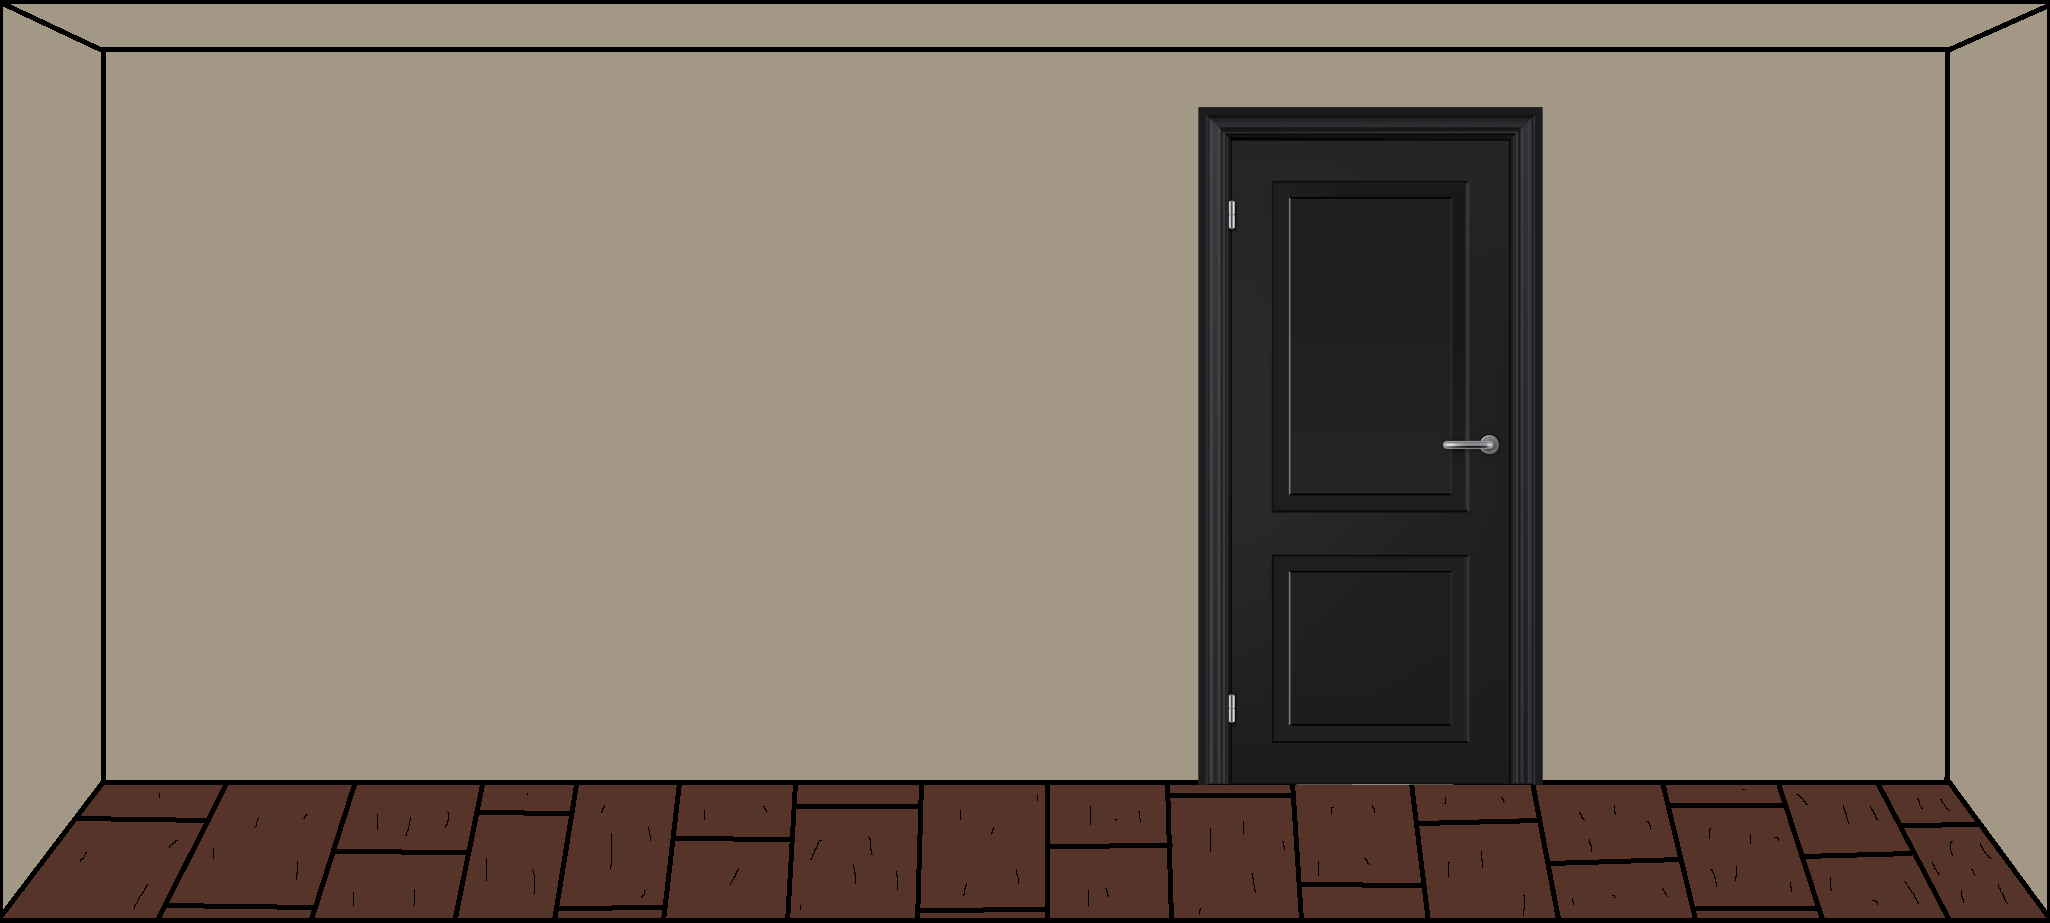
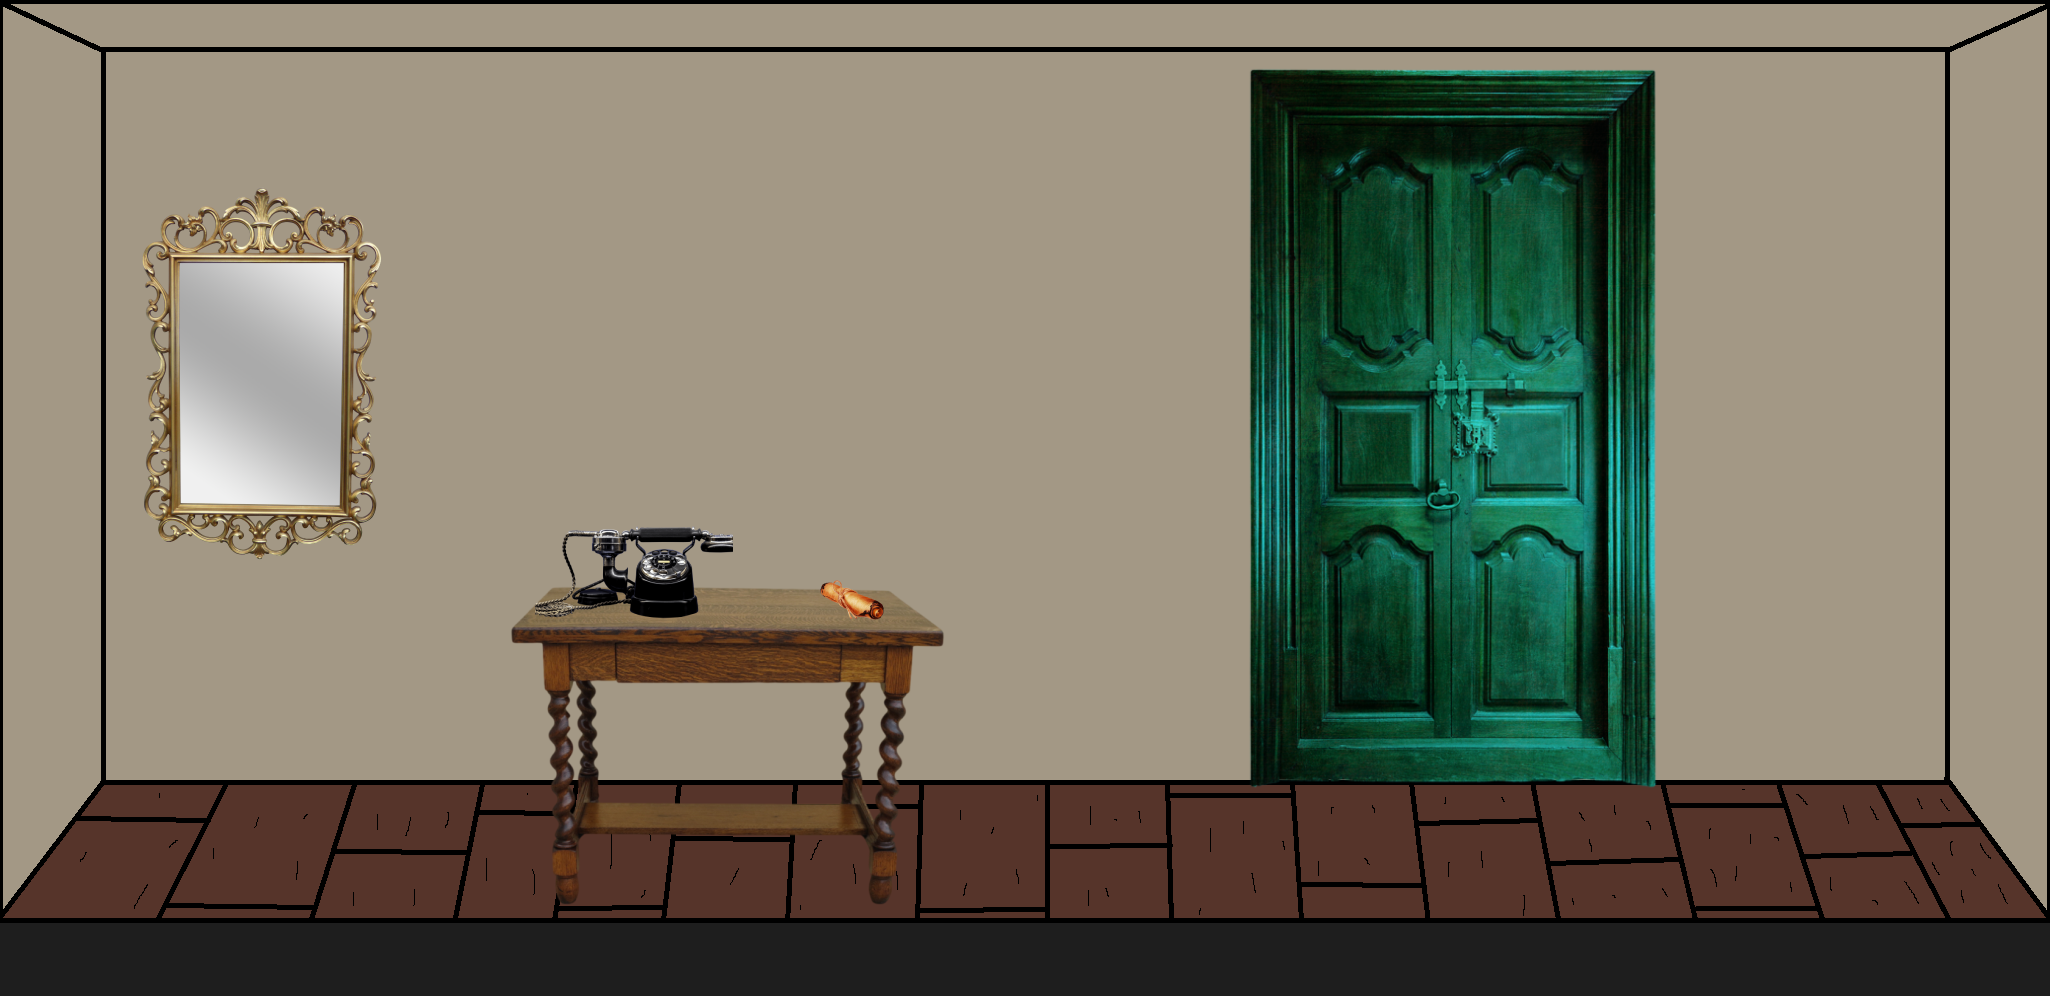
added closeups to game

diff --git a/src/helpers/wall3_story.js b/src/helpers/wall3_story.js
@@ -1,56 +1,66 @@
+import wall3 from '../assets/wall3.png'
 export const story3 = [
     {
         prompt: "As you enter the final room you take a look around - there is a door, a mirror, a table, and a phone. Each of these items holds a clue that will help you unlock the door and escape to freedom.",
         question: "What would you like to investigate first (table, phone, mirror, or door)?",
         hint:null,
-        answer: null
+        answer: null,
+        image:wall3
     },
     {
         prompt: "You come across a small table with a note sitting on it. The note reads:\n \n\"I'm something you may need,\nWhen you are stuck indeed.\nIf you are lost and cannot cope,\nI'm what you cry out, but with hope.\nWhat am I?\"",
         question: "What is the answer to the riddle?",
         hint:"The answer to this riddle is a four-letter word that refers to something you might ask for when you need assistance. It's a common word that most people use on a regular basis.",
-        answer: "help"
+        answer: "help",
+        image:wall3
     },
     {
         prompt: "Correct, the answer was help. Keep this in mind when using the phone.",
         question: "What would you like to investigate now (phone, mirror, or door)?",
         hint:null,
-        answer: null
+        answer: null,
+        image:wall3
     },
     {
         prompt: "The rotary phone is a vintage telephone with a classic design. It has a circular dial that rotates when you turn it to select a number, rather than a touchpad or a keyboard. The phone is made of sturdy plastic and metal, and has a long cord that connects it to the wall. Despite its age, the phone appears to be in good condition, and it seems like it might still be functional.",
         question: "What number would you like to call?",
         hint: "The table gives a clue on which number would be beneficial to call",
-        answer: "911"
+        answer: "911",
+        image:wall3
     },
     {
         prompt: "The call results in the following message:\n\n \"I am the key to the hidden code,\nA sequence of colors in the right mode.\nIn the correct order, the message will come through.\n\nMy first is hot, my second is fresh,\nMy third is cool, my fourth is the best.\nArrange me right, and you'll see the light,\nA message revealed, and your escape in sight.\"",
         question:"What would you like to explore now (mirror or door)?",
         hint:null,
-        answer:null
+        answer:null,
+        image:wall3
     },
     {
         prompt: "In the corner of the room you spot a vintage mirror, upon closer inspection you notice that there are four colored stones in each corner: blue, red, yellow, and green. Inscribed on the mirror is the following message, \"Find the right color sequence to reveal the hidden message\".",
         question:"What is the color sequence?",
         hint:null,
-        answer:"rgby"
+        answer:"rgby",
+        image:wall3
     },
     {
         prompt: "Correct, the sequence of colors was red, green, blue, yellow. The sequence of colors holds the key to your escape",
         question:"Would you like to move on to the (door or home)",
         hint:null,
-        answer:null
+        answer:null,
+        image:wall3
     },
     {
         prompt: "The door is made of heavy metal and is the only apparent exit from the room. It has a numeric keypad with letters of the alphabet printed on each button, indicating that a code consisting of letters must be entered to unlock the door.",
         question:"What is the 4-letter key that will allow you to escape?",
         hint:null,
-        answer:"rgby"
+        answer:"rgby",
+        image:wall3
     },
     {
         prompt: "Congratulations, you have escaped!",
         question:null,
         hint:null,
-        answer:null
+        answer:null,
+        image:wall3
     }
 ]

diff --git a/src/helpers/wall1_story.js b/src/helpers/wall1_story.js
@@ -1,45 +1,55 @@
-
+import wall_1 from '../assets/wall1.png'
+import bookshelf from '../assets/bookshelf clue.PNG'
+import triangle from '../assets/triangle.png'
 export const story1 = [
     {
         prompt: "As you enter the room, you notice a large bookcase occupying one wall, filled with dusty old tomes and leather-bound volumes. As you move towards the opposite wall, you notice a beautiful painting hanging on the wall. It depicts a brilliant scientist, but something about it seems off. Underneath the painting you find a treasure chest, secured shut with a lock. Explore the room to find various clues to unlock the treasure chest to move on to the next phase.",
         question: "What do you want to investigate first (bookcase, painting, chest)?",
         hint:null,
         answer: null,
+        image: wall_1
+        
     },
     {
         prompt: "You have decided to investigate the bookcase. As you start to look closer, you notice that some of the books are horizontal and appear to be out of order. You quickly realize that the titles on the spine of the books are clues, and you must arrange them in a particular order to unlock the secret of the bookcase. Here is a list of the following titles: \"Of Mice and Men\" by John Steinbeck, \"Pachinko\" by Min Jin Lee, \"East of Eden\" by John Steinbeck, \"Notes from Underground\" by Fyodor Dostoevsky",
         question:"What is the secret clue of the bookcase?",
         hint:"The first letter of each title is important",
         answer:"open",
+        image: bookshelf
     },
     {
         prompt:"Congratulations! You have obtained the clue \"OPEN\" from the bookcase",
         question: "Would you like to investigate the painting or chest?",
         hint:null,
-        answer:null
+        answer:null,
+        image: bookshelf
     },
     {
         prompt: "As you explore the room, you notice a large painting hanging on one of the walls. The painting depicts a brilliant scientist. As you admire the painting, you notice a small slip of paper tucked into the frame. You carefully remove the slip of paper and see that it's a handwritten note, with the following message scrawled across it: \"To unlock the secret behind this art, solve this puzzle with all your heart.\” The message reads a brain teaser which has a numerical answer",
         question: "How many triangles do you see?",
         hint: "Pay attention to how each smaller triangle is also part of a larger triangle, and how that larger triangle is part of an even larger one, and so on.",
-        answer: "24"
+        answer: "24",
+        image: triangle
     },
     {
         prompt:"Congratulations! You have obtained the clue \"1234\" from the painting",
         question: "Would you like to investigate the bookcase or chest?",
         hint:null,
-        answer:null
+        answer:null,
+        image: triangle
     },
     {
         prompt: "As you approach the chest you see it closed with a lock that requires a word and a number to unlock",
         question:"What word and number should it be?",
         hint:null,
-        answer:null
+        answer:null,
+        image: wall_1
     },
     {
         prompt: "Congratulations! You have successfully unlocked the chest. As you open the chest you find a key that will unlock the next room. You are one step closer to escaping!",
         question: null,
         hint:null,
-        answer:null
+        answer:null,
+        image: wall_1
     }
 ]

diff --git a/src/helpers/wall2_story.js b/src/helpers/wall2_story.js
@@ -1,44 +1,56 @@
+import wall2 from '../assets/wall2.png'
+import clockmove from '../assets/clock moves.png'
+import clockhands from '../assets/clock closeup.png'
+import opensafe from '../assets/open safe.png'
+
 export const story2 = [
     {
         prompt: "As you enter the second room, you find yourself standing in the middle of an old and dusty room. The room is dimly lit, and you can hear the sound of a grandfather clock ticking away in the background. As you look around, you notice a hole in the wall. It's about the size of a small book, and it's located just behind the grandfather clock. You also spot a locked safe in the corner of the room, with a combination lock that requires a 3 number combination to open.",
         question: "What do you want to investigate first (clock or safe)?",
         hint:null,
-        answer: null
+        answer: null,
+        image:wall2
     },
     {
         prompt: "As you approach the clock, you notice that it looks a little out of place. There are some scratches on the wooden frame, and you can see that it has been moved recently, as there are marks on the floor where the clock used to stand. It's as if someone was trying to hide something behind or underneath it.",
         question: "Would you like to move the clock or continue to investigate? (move or investigate)",
         hint:null,
         answer: null,
+        image: clockmove
     },
     {
         prompt: "As you approach the clock, you move it out of the way and see that on the wall behind there is a hole just big enough to fit your hand. You decide to reach in and find a newspaper. ",
         question: "Would you like to investigate the clock further or go to the safe? (investigate or safe) ",
         hint:null,
         answer: null,
+        image:null
     },
     {
         prompt: "As you examine the clock hands, you notice that they are slightly loose and can be moved. You try turning the hands, and to your surprise, you hear a soft clicking sound. You realize that inputting a correct time will open a secret compartment within the clock",
         question: "What should the time be?",
         hint:"Pay close attention to the timestamp on the newspaper. It might hold a clue that will help you unlock the next puzzle.",
         answer: null,
+        image: clockhands
     },
     {
         prompt: "As you turn the hour and minute hand to the correct places you hear a loud click and two small double doors on the clock suddenly swing open. You look inside and find what appears to be a serial number etched into the wood of the clock: 30-16-45",
         question: "Would you like to move to the safe or home?",
         hint:null,
         answer: null,
+        image:clockhands
     },
     {
         prompt: "As you approach the safe you see it is locked tight with a 3 number combination",
         question: "Do you know the combination? (xx-xx-xx format)",
         hint:null,
         answer: "30-16-45",
+        image:wall2
     },
     {
         prompt: "Congratulations! You enter the code and manage to unlock the safe. Inside the safe, you find a key to unlock the door and move on to the next room. ",
         question: null,
         hint:null,
-        answer:null
+        answer:null,
+        image:opensafe
     }
 ]

diff --git a/src/components/game.js b/src/components/game.js
@@ -132,9 +132,7 @@ function Game(){
           <div className="topContent">
             <button disabled={index == 0} className="moveButtons" onClick={moveLeft}><FaArrowLeft className="arrow" size={30}/></button>
           
-            {index == 0 && storyIndex==3 && <div className="trianglediv"><img src={triangle}/></div>}
-            {index == 1 && storyIndex==2 && <div className="trianglediv"><img src={null}/></div>}
-            {!(index==0 && storyIndex==3) && !(index==1 && storyIndex==2) && <img src={roomWalls[index].image} className="center-fit" />}
+              {index == 0 && storyIndex==3 || index == 1 && storyIndex==2 ? (<div className="trianglediv"><img src={storymap[index][storyIndex].image} /></div>):(<img src={storymap[index][storyIndex].image} className="center-fit" />)}
     
             <button disabled={index == 2 || index == maxIndex} className="moveButtons" onClick={moveRight}><FaArrowRight className="arrow" size={30}/></button>
           </div>
